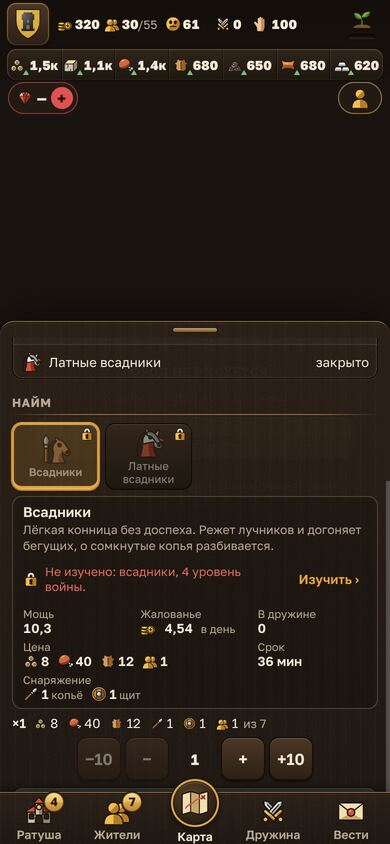
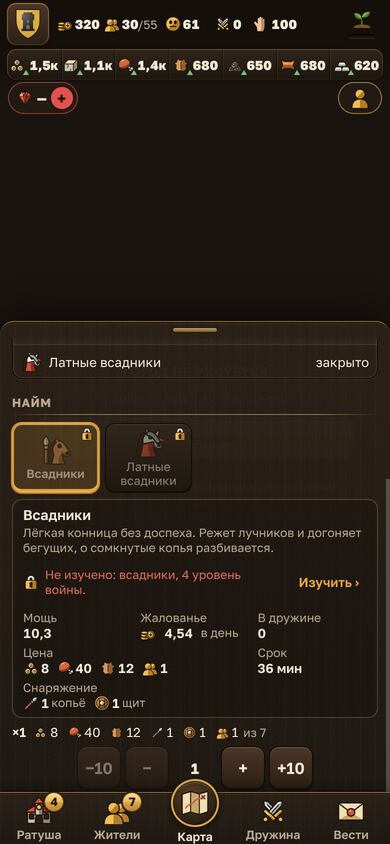
docs: Р-3 — новый найм и подписи у всех: решения, снимки «до» и «после», тесты и мутации, пол, передача; Р-3: ГОТОВО
Claude-Session: https://claude.ai/code/session_01DUNuyvV4MUf2CLpZU2CFbu

diff --git a/docs/ui_v2.md b/docs/ui_v2.md
@@ -1543,6 +1543,68 @@ docs/ui_v2/shots.ts` («до» — `2a3c50c`): `01-city` верх города, 
 Снимки `docs/icons/zn4-*-after.jpg` — стенд `DIR=icons GROUP=zn4 WEATHER=clear TAG=after npx vite-node docs/ui_v2/shots.ts`
 («до» не снимались: прежний вид — `zn3-*-after`).
 
+### 5.12. Р-3: новый найм войск; подписи включены у всех (19.10.2026)
+
+Слово владельца: в казармах и конюшне блок «число и Нанять» ездил при прокрутке и мешал выбрать вид — в конюшне второй
+конный вид было не выбрать: полоса стояла поверх него (`r3-stable-hire-before`). Подписи построек — включены у всех, и у тех,
+кто прежде их выключил; дальше выключатель помнится.
+
+| Окно | До (`game/r-2`, `c35f519`) | После (`game/r-3`) |
+| --- | --- | --- |
+| казармы, открыто | [до](ui_v2/r3-barracks-open-before.jpg) | [после](ui_v2/r3-barracks-open-after.jpg) |
+| казармы, «Найм» | [до](ui_v2/r3-barracks-hire-before.jpg) | [после](ui_v2/r3-barracks-hire-after.jpg) |
+| конюшня, открыто | [до](ui_v2/r3-stable-open-before.jpg) | [после](ui_v2/r3-stable-open-after.jpg) |
+| конюшня, «Найм» | [до](ui_v2/r3-stable-hire-before.jpg) | [после](ui_v2/r3-stable-hire-after.jpg) |
+
+Снимки 390×844 @2 (уменьшены вдвое), «Низкое», запасы и снаряжение подняты стендом:
+`CHROME=/opt/pw-browsers/chromium GAME=1 QUALITY=low PANEL=barracks,stable TAG=r3-after npm run city:shots`; «до» — тем же
+стендом в отдельном worktree `game/r-2`. Чёрное небо на «после» конюшни — программная видеокарта облака не успела
+кадр, к найму не относится.
+
+#### Решения Р-3
+
+1. **Найм — три яруса в потоке окна, без плавающей полосы.** Сверху — значки видов сеткой по четыре (ЗН-1, `iconName('troop')`),
+   выбранный — янтарной рамкой; под ними — карточка выбранного; ниже — число (−10, −, +, +10) и «Нанять» во всю ширину с
+   видом, числом и сроком, над ними — цена партии (запасы, снаряжение, люди «из свободных»; нехватка — красным). Закреплённая
+   полоса (`nx-obar`) у найма снята: она ездила и закрывала виды; у кузницы и «Дружины» осталась — там списка под ней нет.
+2. **Закрытый вид выбирается.** Прежде строка закрытого не нажималась; теперь значок с замком выбирается, карточка говорит
+   причину гейтом (`troopBlock`) с дверью «Изучить ›», «Нанять» гаснет. Причина одна — в карточке; под кнопкой она не
+   повторяется (под кнопкой — только прочие отказы `recruitCheck`: стойла, руки, снаряжение, запасы, осада).
+3. **Карточка — числа одного бойца, кнопка — партии.** Мощь (`powerOf`), жалованье в день (`wageOf`), в дружине, цена и срок
+   одного (`recruitCheck(…, 1)`), снаряжение одного с именем вещи; цена и срок партии — у кнопки (`recruitCheck(…, n)`).
+   Своей арифметики нет (правило 18). Описание вида — две строки, не больше, чтобы конюшня с закрытым видом и снаряжением
+   влезала в окно до кнопки.
+4. **В казармах найм — первым разделом.** Прежде над ним стояли «Дружина», «Стены» и «Жалованье», и до найма надо было
+   листать; найм — главное дело здания. Остальное — ниже в прежнем порядке.
+5. **Одно место найма на всех.** Бойцов нанимают только казармы и конюшня, обе — `Recruit` → `RecruitNew`; тело без своего
+   состояния (`HireBody`) общее, выбор и число держит обёртка. Карточка вида (`TroopCardView`) по-прежнему зовёт найм
+   просьбой (`recruitAsk`) — выбранным открывается позванный вид. Механика найма не тронута.
+6. **Подписи: разовый сброс сменой ключа памяти.** `tribe.labels` → `tribe.labels.r3`: прежний ключ не читается и стирается
+   при первом чтении, поэтому сохранённое «выкл.» не действует ни у кого; выключенное после обновления помнится новым
+   ключом. Отдельной отметки «сброс сделан» нет: её роль играет сам новый ключ.
+
+Тесты: `ui/next/hire.test.ts` — у казарм и конюшни каждый вид выбирается значком (закрытый тоже), подсвечен ровно он,
+карточка — его и у закрытого с причиной; «Нанять» ставит в очередь именно выбранный вид и число. `ui/next/labels.test.ts` —
+новый игрок с подписями; прежний «выкл.» после обновления — включены, старый ключ стёрт; выключил — помнится после
+перезагрузки, включил — тоже.
+
+| Мутация | Падает |
+| --- | --- |
+| значок закрытого не выбирается (`open(id) && setPick(id)`) | «…любой вид выбирается значком…» — «нажатый spearman выбран» (конюшня — rider) |
+| «Нанять» нанимает первый вид (`here[0]`) | «…ставит в очередь именно выбранный вид…» — «в очереди spearman» (конюшня — knight) |
+| прежний ключ (`tribe.labels`, без стирания) | «прежний «выкл.» сбрасывается один раз…» — «включены, хотя прежде выключены» |
+
+#### Передача Р-3
+
+- Ветка `game/r-3` от `game/r-2` (`c35f519`, дождалась «Р-2: ГОТОВО»). Ядро не тронуто: правки — `src/ui/` (периферия), стенд
+  `scripts/city-shots.ts` (`PANEL=`), документы. Механика найма та же (`recruitCheck`, `startRecruit` не тронуты).
+- Пол: `npm test` — 4371 зелёных и один красный, `scripts/lib/fan.test.ts` «по процессам», — тот же облачный, что в передачах
+  UI-2 и UI-3 (бюджет — одно ядро, веер идёт в своём процессе; `scripts/lib` дифф не трогает); `npm run typecheck` чистый;
+  `npm run build` — первая загрузка **611.3 КБ** по сети, как на `game/r-2`. Первый прогон поймал два замка — мелкий текст
+  11 px (`palette.test`) и ключ памяти подписей в `clean.test` — починены тем же заходом (`62e9f14`).
+- **Приёмки отчётами не было** (задание: без fan и полных отчётов); по диффу вероятны `tap` и `scene` (окно постройки).
+  Последний принятый — по-прежнему `04b7e74`. Замка машины не было; временный worktree `game/r-2` для «до» снят.
+
 ## 6. Вопросы владельцу
 
 ### 6.0. Ответы владельца (16.10.2026, задание UI-8)
@@ -1795,3 +1857,5 @@ Telegram iOS и Android, выход из дел покоев пальцем (doc
 ОР-1: ГОТОВО
 
 ЗН-3: ГОТОВО
+
+Р-3: ГОТОВО
